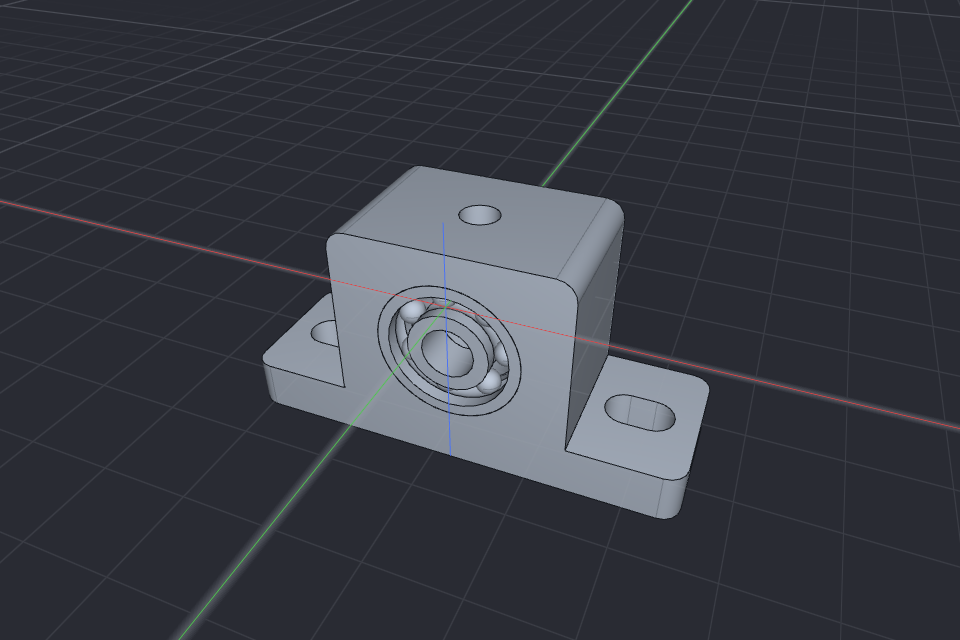
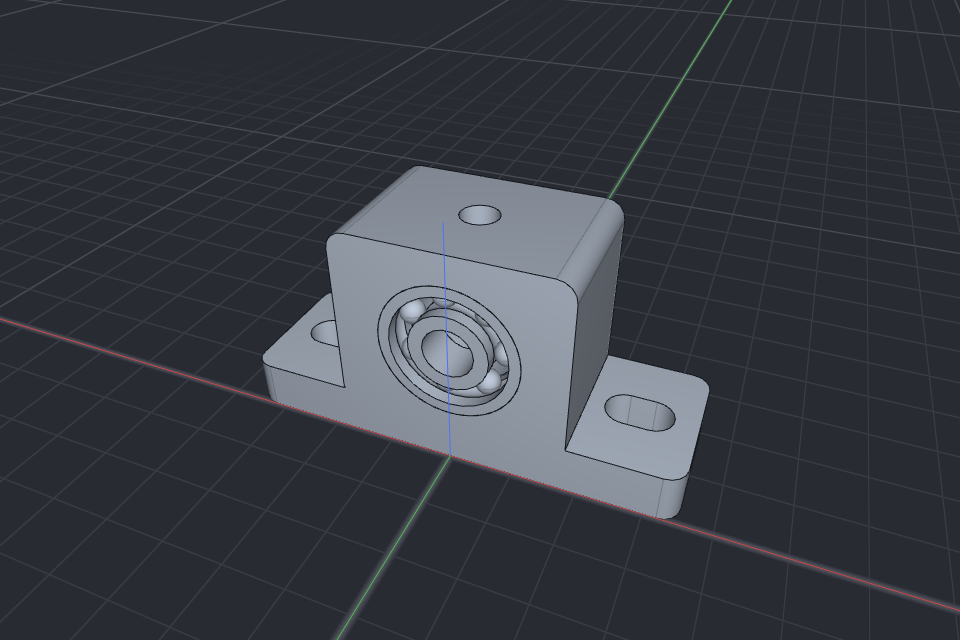
Bearing block as a shared part; frames with free axes

diff --git a/examples/demos/05-bearing-block/build.py b/examples/demos/05-bearing-block/build.py
@@ -1,98 +1,31 @@
 #!/usr/bin/env python3
 # Writes build.txt (run: python3 build.py). The program runs build.txt: rolidium cli run build.txt
 import math, os, sys
-sys.path.insert(0, os.path.join(os.path.dirname(os.path.abspath(__file__)), ".."))
+here = os.path.dirname(os.path.abspath(__file__))
+sys.path.insert(0, os.path.join(here, ".."))
 from rdm import Script
+import parts
 
 s = Script("Pillow block with a 608 ball bearing (8 x 22 x 7 mm): housing, inner and outer ring with raceways, seven balls of 3.969 mm. "
            "The shaft axis is along Y at a height of 20 mm.")
-X0 = 200   # the housing is built here, far from the origin, because the bearing is revolved about an axis through the origin; it is moved back at the end
-AX = 20    # height of the axis
+s.comment("The part is made by parts.bearing_block (the machine, demo 10, uses it too). The rings and balls are revolved about an axis through the origin")
+s.comment("(that place has to be empty), the housing is built far away and everything is moved to the place: axis along Y, 20 mm above the floor.")
+parts.staged(s, "y", 1, (0, 0, 20), parts.bearing_block)
+s.header(10, 30240.269, no_overlap="yes")
+s.raw("export-step target/demos/05-bearing-block/05-bearing-block.step")
+s.raw("info")
+s.write(os.path.join(here, "build.txt"))
 
-s.comment("The bearing (bodies 1 to 9) is revolved about the Y axis first, at the origin, where nothing else is yet.")
-R_BALL = 3.969 / 2
-R_PITCH = 7.75                         # the balls run on a circle of this radius
-G = 2.05                               # radius of the raceway grooves
-dz = math.sqrt(G * G - (R_PITCH - 6.25) ** 2)   # the groove meets the outer face of the inner ring (r = 6.25) at +-dz from the middle
-def groove_ring(r_face, r_mid, sign):
-    """Half section of a ring (radius from r_face_a to r_face_b is drawn by the caller); returns the points of the groove."""
-    return (r_face, 3.5 - dz), (r_mid, 3.5), (r_face, 3.5 + dz)
-
-s.comment("Inner ring: bore 8, outer face r = 6.25 with a groove (an arc).")
-s.sketch("xy")
-s.line(4, 0, 6.25, 0)
-s.line(6.25, 0, 6.25, 3.5 - dz)
-s.arc(6.25, 3.5 - dz, R_PITCH - G, 3.5, 6.25, 3.5 + dz)
-s.line(6.25, 3.5 + dz, 6.25, 7)
-s.line(6.25, 7, 4, 7)
-s.line(4, 7, 4, 0)
-s.raw("revolve 0 y 360 add")
-s.comment("Outer ring: outer diameter 22, inner face r = 9.25 with a groove.")
-s.sketch("xy")
-s.line(9.25, 0, 11, 0)
-s.line(11, 0, 11, 7)
-s.line(11, 7, 9.25, 7)
-s.line(9.25, 7, 9.25, 3.5 + dz)
-s.arc(9.25, 3.5 + dz, R_PITCH + G, 3.5, 9.25, 3.5 - dz)
-s.line(9.25, 3.5 - dz, 9.25, 0)
-s.raw("revolve 0 y 360 add")
-s.comment("A ball: a half disc revolved about its diameter, then copied to seven places on the pitch circle (and the first one moved to its place).")
-s.sketch("xy")
-s.arc(0, -R_BALL, R_BALL, 0, 0, R_BALL)
-s.line(0, R_BALL, 0, -R_BALL)
-s.raw("revolve 0 y 360 add")
-ball = 3
-for k in range(7):
-    a = 2 * math.pi * k / 7
-    x, y, z = R_PITCH * math.cos(a), 3.5, AX + R_PITCH * math.sin(a)
-    if k < 6:
-        s.raw(f"move {x:.4f} {y} {z:.4f} copy body {ball}")
-    else:
-        s.raw(f"move {x:.4f} {y} {z:.4f} body {ball}")
-s.n = 9
-s.move(0, 0, AX, 1)
-s.move(0, 0, AX, 2)
-
-s.comment("The housing (body 10), built at x = 200 and moved back at the end: a base 70 x 24 x 8, the block over the axis, the bearing seat and the bore.")
-s.box(X0 - 35, 0, 0, 70, 24, 8)
-s.sketch("xy", 8)
-s.rect(X0 - 18, 0, X0 + 18, 24)
-s.pull(28, "add")
-for sx in (-1, 1):
-    s.round(3, X0 + sx * 35, 0, 4, body=10)
-    s.round(3, X0 + sx * 35, 24, 4, body=10)
-    s.round(3, X0 + sx * 18, 12, 36, body=10)
-s.comment("Bore 19 through, and the seat for the bearing: 22.05 wide (0.025 mm clearance), 7 mm deep from the front face y = 0.")
-s.sketch("xz", -25)
-s.circle(X0, AX, 19)
-s.pull(26, "cut")
-s.sketch("xz", -7)
-s.circle(X0, AX, 22.05)
-s.pull(8, "cut")
-s.comment("Two oval slots for M6 screws, 52 mm apart (6.6 wide, centres 4 mm apart) in the base.")
-r = 3.3
-for sx in (-1, 1):
-    cx, cy = X0 + sx * 26, 12
-    s.sketch("xy", -1)
-    s.line(cx - 2, cy + r, cx + 2, cy + r)
-    s.arc(cx + 2, cy + r, cx + 2 + r, cy, cx + 2, cy - r)
-    s.line(cx + 2, cy - r, cx - 2, cy - r)
-    s.arc(cx - 2, cy - r, cx - 2 - r, cy, cx - 2, cy + r)
-    s.pull(10, "cut")
-s.comment("A lubrication hole of diameter 6 from the top into the bore.")
-s.hole("xy", 28, [(X0, 12)], 6, 10)
-s.move(-X0, 0, 0, 10)
 # the picture file of the section (outputs.txt, used by build-all.sh): the program has no section view, so a half is cut away
-here = os.path.dirname(os.path.abspath(__file__))
 out = ["# a half (x > 0) of every body cut away: the cut face is seen from the right. Balls that lie wholly in the removed half are deleted.",
        "box 80 60 80", "move 0 -30 -10 body 11"]
-ball_bodies = {k: (4 + k if k < 6 else 3) for k in range(7)}
-cuts, deletes = [10, 1, 2], []
+ball_bodies = {k: (5 + k if k < 6 else 4) for k in range(7)}
+cuts, deletes = [1, 2, 3], []
 for k, b in ball_bodies.items():
-    cx = R_PITCH * math.cos(2 * math.pi * k / 7)
-    if cx - R_BALL > 0:
+    cx = parts.R_PITCH * math.cos(2 * math.pi * k / 7)
+    if cx - parts.R_BALL > 0:
         deletes.append(b)
-    elif abs(cx) < R_BALL:
+    elif abs(cx) < parts.R_BALL:
         cuts.append(b)
 for b in cuts:
     out.append(f"combine cut {b} 11 keep")
@@ -101,7 +34,3 @@ for b in sorted(deletes, reverse=True):
     out.append(f"delete body {b}")
 out += ["save @OUT@/@NAME@-section.rolidium", "render @OUT@/@NAME@-detail.png 1920 1080 right"]
 open(os.path.join(here, "outputs.txt"), "w").write("\n".join(out) + "\n")
-s.raw("export-step target/demos/05-bearing-block/05-bearing-block.step")
-s.header(10, 30240.269, no_overlap="yes")
-s.raw("info")
-s.write(os.path.join(os.path.dirname(os.path.abspath(__file__)), "build.txt"))

diff --git a/examples/demos/parts.py b/examples/demos/parts.py
@@ -82,9 +82,9 @@ def shaft_coupling(s, f):
 COUPLING_SCREWS = (7.5, 22.5)    # positions of the clamp screws along the coupling
 
 
-def staged(s, axis, sign, final, builder, *args):
-    """Builds a part at the staging area (frame axis/sign), then moves it so that its local origin is at `final` (a world point)."""
-    f = Frame(s, axis, sign, STAGE)
+def staged(s, axis, sign, final, builder, *args, uv=None):
+    """Builds a part at the staging area (frame axis/sign/uv, see rdm.Frame), then moves it so that its local origin is at `final` (a world point)."""
+    f = Frame(s, axis, sign, STAGE, uv)
     bodies = builder(s, f, *args)
     place(s, bodies, tuple(final[i] - STAGE[i] for i in range(3)))
     return bodies
@@ -203,3 +203,81 @@ def spindle_mount(s, f):
 
 
 MOUNT_SCREWS = (85, 115)    # where the two clamp screws are along the spindle
+
+
+# ---- ball bearing 608 in a pillow block ------------------------------------------------------------------------------------------------
+R_BALL = 3.969 / 2
+R_PITCH = 7.75          # the balls run on a circle of this radius
+GROOVE = 2.05           # radius of the raceway grooves
+
+
+def bearing_block(s, f):
+    """Pillow block with a 608 ball bearing (demo 5): the shaft axis is the local w axis through u = v = 0, the bearing sits in the seat at w = 0 .. 7
+    (so its open side is on w = 0), the housing runs from w = 0 to 24, its base is below (v = -20 .. -12, 70 wide). Returns the bodies: housing, inner ring,
+    outer ring, seven balls. The rings and balls are revolved about the world axis through the origin, so that place must be empty."""
+    A, sg = f.names[2], f.signs[2]
+    dz = math.sqrt(GROOVE ** 2 - (R_PITCH - 6.25) ** 2)
+
+    def pc(r, a):       # (radial, axial) -> sketch coordinates in the sketch plane that contains the axis
+        return (a, r) if A == "x" else (r, a)
+    plane = "xz" if A == "z" else "xy"
+
+    def ring(segs):
+        s.sketch(plane)
+        for seg in segs:
+            if seg[0] == "line":
+                (r1, a1), (r2, a2) = seg[1], seg[2]
+                s.line(*pc(r1, sg * a1), *pc(r2, sg * a2))
+            else:
+                (r1, a1), (rm, am), (r2, a2) = seg[1], seg[2], seg[3]
+                s.arc(*pc(r1, sg * a1), *pc(rm, sg * am), *pc(r2, sg * a2))
+        s.raw(f"revolve 0 {A} 360 add")
+        s.n += 1
+    housing = s.n + 1
+    f.ext("w", 0, 24, ("rect", -35, -20, 35, -12), "add", joins=False)
+    f.ext("w", 0, 24, ("rect", -18, -12, 18, 16), "add")
+    for sx in (-35, 35):
+        for w in (0, 24):
+            f.round(3, sx, -16, w, body=housing)
+    for sx in (-18, 18):
+        f.round(3, sx, 16, 12, body=housing)
+    f.ext("w", -1, 25, ("circle", 0, 0, 19), "cut")
+    f.ext("w", -1, 7, ("circle", 0, 0, 22.05), "cut")
+    for sx in (-26, 26):
+        f.ext("v", -21, -11, ("slot", sx, 12, "a", 4, 6.6), "cut")
+    f.ext("v", 8, 17, ("circle", 0, 12, 6), "cut")
+    first = s.n + 1
+    ring([("line", (4, 0), (6.25, 0)), ("line", (6.25, 0), (6.25, 3.5 - dz)),
+          ("arc", (6.25, 3.5 - dz), (R_PITCH - GROOVE, 3.5), (6.25, 3.5 + dz)),
+          ("line", (6.25, 3.5 + dz), (6.25, 7)), ("line", (6.25, 7), (4, 7)), ("line", (4, 7), (4, 0))])
+    ring([("line", (9.25, 0), (11, 0)), ("line", (11, 0), (11, 7)), ("line", (11, 7), (9.25, 7)),
+          ("line", (9.25, 7), (9.25, 3.5 + dz)),
+          ("arc", (9.25, 3.5 + dz), (R_PITCH + GROOVE, 3.5), (9.25, 3.5 - dz)),
+          ("line", (9.25, 3.5 - dz), (9.25, 0))])
+    # the ball: a half disc whose diameter lies on the axis, revolved about it
+    s.sketch(plane)
+    s.arc(*pc(0, -R_BALL), *pc(R_BALL, 0), *pc(0, R_BALL))
+    s.line(*pc(0, R_BALL), *pc(0, -R_BALL))
+    s.raw(f"revolve 0 {A} 360 add")
+    s.n += 1
+    ball0 = s.n
+    others = [n for n in ("x", "y", "z") if n != A]
+    for k in range(7):
+        a = 2 * math.pi * k / 7
+        pos = [0.0, 0.0, 0.0]
+        pos[_IDX_[others[0]]] = R_PITCH * math.cos(a)
+        pos[_IDX_[others[1]]] = R_PITCH * math.sin(a)
+        pos[_IDX_[A]] = sg * 3.5
+        d = tuple(pos[i] + f.origin[i] for i in range(3))
+        if k < 6:
+            copy_to(s, ball0, d)
+        else:
+            s.move(d[0], d[1], d[2], ball0)
+    # the rings go to the frame's origin too (they were made at the world origin)
+    s.move(*f.origin, first)
+    s.move(*f.origin, first + 1)
+    balls = [ball0] + list(range(s.n - 5, s.n + 1))
+    return [housing, first, first + 1] + sorted(set(balls))
+
+
+_IDX_ = {"x": 0, "y": 1, "z": 2}

diff --git a/examples/demos/rdm.py b/examples/demos/rdm.py
@@ -114,22 +114,30 @@ _IDX = {"x": 0, "y": 1, "z": 2}
 
 
 class Frame:
-    def __init__(self, s, axis="z", sign=1, origin=(0.0, 0.0, 0.0)):
+    def __init__(self, s, axis="z", sign=1, origin=(0.0, 0.0, 0.0), uv=None):
+        """`uv` chooses where the local u and v point: ((name, sign), (name, sign)) with world axis names, e.g. (("z", 1), ("y", -1)) for u -> +Z
+        and v -> -Y (then `axis` must be the third axis, x). Without it u and v follow the cyclic order x, y, z."""
         self.s, self.axis, self.sign, self.origin = s, axis, sign, origin
-        self.names = _AXES[axis]            # world axis names of local u, v, w
+        if uv is None:
+            self.names = _AXES[axis]            # world axis names of local u, v, w
+            self.signs = (1, 1, sign)
+        else:
+            (nu, su), (nv, sv) = uv
+            assert {nu, nv, axis} == {"x", "y", "z"}, "u, v and the axis must be the three axes"
+            self.names = (nu, nv, axis)
+            self.signs = (su, sv, sign)
 
     def world(self, u, v, w):
         """The world point of the local point (u, v, w)."""
         p = [0.0, 0.0, 0.0]
-        p[_IDX[self.names[0]]] = u
-        p[_IDX[self.names[1]]] = v
-        p[_IDX[self.names[2]]] = w * self.sign
+        for i, val in enumerate((u, v, w)):
+            p[_IDX[self.names[i]]] = val * self.signs[i]
         return tuple(p[i] + self.origin[i] for i in range(3))
 
     def _lw(self, local):
         """(u, v, w) local axis letter -> (world axis letter, factor)."""
         i = "uvw".index(local)
-        return self.names[i], (self.sign if local == "w" else 1)
+        return self.names[i], self.signs[i]
 
     def ext(self, local, lo, hi, shape, mode="add", joins=True, times=1):
         """Extrudes `shape` along the local axis from lo to hi. shape: ('rect', a0, b0, a1, b1), ('circle', a, b, d) or ('poly', [(a, b), ...])

diff --git a/examples/demos/05-bearing-block/README.md b/examples/demos/05-bearing-block/README.md
@@ -12,5 +12,4 @@ A pillow block housing and a bearing of the size 608 (8 x 22 x 7 mm) in its seat
 * **Section:** the program has no section view, so the file `05-bearing-block-section.rolidium` has half of every body (x > 0) cut away; the detail picture is made from it.
   (A half and not a quarter: seen from the side, a quarter would still hide the cut face.)
 * **Tools:** Sketch (Line, Arc, Circle), Revolve, Pull (add and cut), Round, Move with copy, Combine (cut with keep).
-* **How it is built:** the bearing is revolved first, at the origin, because Revolve turns about an axis through the origin and nothing else may be
-  there; the housing is built 200 mm away along X and moved back at the end.
+* **How it is built:** by `parts.bearing_block` (the machine, demo 10, uses it too). The housing is built far away; the rings and balls are revolved about an axis through the origin (Revolve turns about an axis through the origin, so that place has to be empty), then everything is moved to its place (a move never joins bodies).
